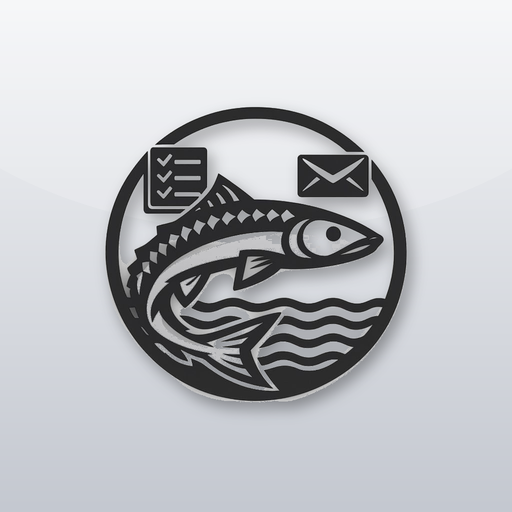
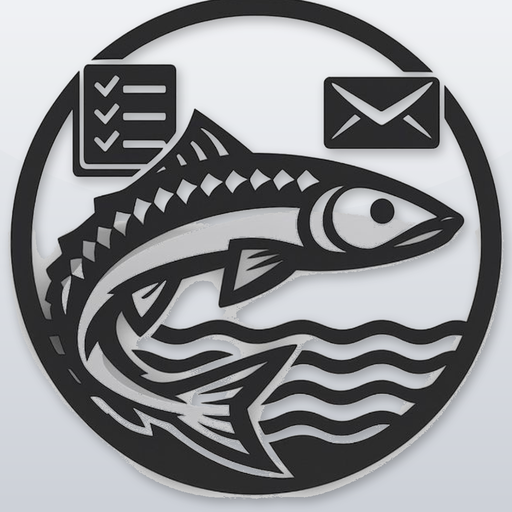
Add files via upload

diff --git a/app.py b/app.py
@@ -481,24 +481,35 @@ padding:1px 7px;margin-left:6px;white-space:nowrap}
 .ci.don .cbox{background:#0a84ff;border-color:#0a84ff}
 .ci.don .ct{text-decoration:line-through;color:#8e8e93}
 .ci .del{margin-left:auto;color:#8e8e93;padding:0 6px}
-.overlay{position:fixed;inset:0;background:rgba(0,0,0,.55);display:flex;
-align-items:flex-end;justify-content:center;z-index:9}
-.sheet{background:#242426;border-radius:16px 16px 0 0;width:100%;max-width:560px;
-max-height:92vh;overflow-y:auto;-webkit-overflow-scrolling:touch;
-padding:16px 16px calc(16px + env(safe-area-inset-bottom));display:flex;
-flex-direction:column;gap:9px}
-.row .sym{font-size:18px;width:26px;text-align:center;flex:0 0 auto}
-.row{gap:8px}
-.sheet textarea{width:100%;background:#2c2c2e;color:#eee;border:none;border-radius:10px;
-padding:10px;font-size:16px;font-family:inherit;resize:vertical}
-.row{display:flex;align-items:center;justify-content:space-between;font-size:15px}
-.row input{background:#2c2c2e;color:#eee;border:none;border-radius:8px;padding:8px;
-font-size:15px;color-scheme:dark}
-.btns{display:flex;flex-wrap:wrap;gap:8px;margin-top:4px}
-.btns button{flex:1;min-width:96px;font-size:15px;padding:11px;border-radius:10px;
-border:none;background:#3a3a3c;color:#eee}
-.btns .primary{background:#0a84ff;color:#fff;font-weight:600}
-.btns .danger{background:#3a3a3c;color:#ff453a}
+/* Окно задачи — на весь экран, как в Things на iPhone */
+.overlay{position:fixed;inset:0;background:#1c1c1e;z-index:9;display:flex;flex-direction:column;
+padding:env(safe-area-inset-top) 0 0}
+.mbar{display:flex;align-items:center;gap:8px;padding:8px 14px;flex:0 0 auto}
+.mbar .sp{flex:1}
+.mbar button{background:none;border:none;color:#0a84ff;font-size:17px;padding:6px}
+.mbody{flex:1 1 auto;overflow-y:auto;-webkit-overflow-scrolling:touch;padding:6px 16px 16px}
+.mbody textarea{width:100%;background:none;color:#eee;border:none;font-family:inherit;resize:none}
+#m_title{font-size:22px;font-weight:600}
+#m_note{font-size:17px;min-height:32vh;line-height:1.4}
+.chips{display:flex;flex-wrap:wrap;gap:6px;margin:8px 0}
+.mchip{font-size:14px;padding:4px 10px;border-radius:14px;background:#2c2c2e;color:#ddd;
+display:inline-flex;align-items:center;gap:5px}
+/* Нижняя панель символов */
+.toolbar{flex:0 0 auto;display:flex;gap:4px;justify-content:space-around;
+padding:10px 8px calc(10px + env(safe-area-inset-bottom));border-top:1px solid #2c2c2e;
+background:#161618}
+.toolbar button{background:none;border:none;font-size:24px;padding:6px 10px;border-radius:10px}
+.toolbar button.on{background:#2c2c2e}
+/* Выдвижная панель ввода над toolbar */
+.panel{flex:0 0 auto;background:#242426;border-top:1px solid #333;padding:12px 16px;
+display:none}
+.panel.show{display:block}
+.panel input{width:100%;background:#2c2c2e;color:#eee;border:none;border-radius:8px;
+padding:10px;font-size:16px;color-scheme:dark;margin-top:6px}
+.panel .quick{display:flex;gap:8px;margin-top:8px;flex-wrap:wrap}
+.panel .quick button{background:#2c2c2e;color:#0a84ff;border:none;border-radius:8px;
+padding:8px 12px;font-size:15px}
+.ci{display:flex;gap:10px;align-items:center;padding:7px 0;font-size:16px}
 </style></head><body>
 <div class="head">
 <div class="tabs" id="tabs">
@@ -516,30 +527,49 @@ enterkeyhint="done"><button onclick="add()">＋</button></div>
 </div>
 <div id="list"></div>
 
-<div id="modal" class="overlay" style="display:none" onclick="if(event.target===this)closeModal()">
-<div class="sheet">
-<textarea id="m_title" rows="2" placeholder="Название"></textarea>
-<textarea id="m_note" rows="7" placeholder="Заметки" style="max-height:50vh"></textarea>
-<div id="m_check"></div>
-<div class="row">
- <span class="sym">☑︎</span>
- <input id="m_newitem" placeholder="пункт чек-листа" style="flex:1"
-  onkeydown="if(event.key==='Enter')addCheck()"></div>
-<div class="row"><span class="sym">📁</span>
- <input id="m_project" list="projlist" placeholder="проект" style="flex:1"><datalist id="projlist"></datalist></div>
-<div class="row"><span class="sym">🏷️</span>
- <input id="m_tags" placeholder="теги через запятую" style="flex:1"></div>
-<div class="row"><span class="sym">📅</span><input type="date" id="m_date" style="flex:1"></div>
-<div class="row"><span class="sym">🕐</span><input type="time" id="m_time" style="flex:1"></div>
-<div class="row"><span class="sym">🗄️</span><span style="flex:1">Когда-нибудь</span>
- <input type="checkbox" id="m_someday"></div>
-<div class="btns">
-<button class="primary" onclick="saveModal()">Сохранить</button>
-<button class="danger" id="m_trash" onclick="trashModal()">В корзину</button>
-<button id="m_restore" onclick="restoreModal()">Вернуть</button>
-<button class="danger" id="m_delete" onclick="deleteForever()">Удалить навсегда</button>
+<div id="modal" class="overlay" style="display:none">
+ <div class="mbar">
+  <button onclick="saveModal()">‹ Готово</button>
+  <span class="sp"></span>
+  <button id="m_trash" onclick="trashModal()" style="color:#ff453a">🗑</button>
+  <button id="m_restore" onclick="restoreModal()" style="display:none">Вернуть</button>
+  <button id="m_delete" onclick="deleteForever()" style="display:none;color:#ff453a">Удалить</button>
+ </div>
+ <div class="mbody">
+  <textarea id="m_title" rows="1" placeholder="Название"></textarea>
+  <div class="chips" id="m_chips"></div>
+  <textarea id="m_note" placeholder="Заметки"></textarea>
+  <div id="m_check"></div>
+ </div>
+ <!-- Выдвижные панели ввода -->
+ <div class="panel" id="p_date">
+  <input type="date" id="m_date">
+  <div class="quick">
+   <button onclick="setQuickDate(0)">Сегодня</button>
+   <button onclick="setQuickDate(1)">Завтра</button>
+   <button onclick="m_date.value='';renderChips()">Убрать дату</button>
+  </div>
+ </div>
+ <div class="panel" id="p_time"><input type="time" id="m_time">
+  <div class="quick"><button onclick="m_time.value='';renderChips()">Убрать время</button></div></div>
+ <div class="panel" id="p_check">
+  <input id="m_newitem" placeholder="пункт чек-листа + Enter"
+   onkeydown="if(event.key==='Enter')addCheck()"></div>
+ <div class="panel" id="p_tags"><input id="m_tags" placeholder="теги через запятую"
+   oninput="renderChips()"></div>
+ <div class="panel" id="p_project"><input id="m_project" list="projlist" placeholder="проект"
+   oninput="renderChips()"><datalist id="projlist"></datalist>
+  <div class="quick"><button onclick="m_someday.checked=!m_someday.checked;renderChips()"
+   id="m_someday_btn">🗄️ Когда-нибудь</button></div>
+  <input type="checkbox" id="m_someday" style="display:none"></div>
+ <div class="toolbar">
+  <button onclick="togglePanel('p_date',this)">📅</button>
+  <button onclick="togglePanel('p_time',this)">🕐</button>
+  <button onclick="togglePanel('p_check',this)">☑︎</button>
+  <button onclick="togglePanel('p_tags',this)">🏷️</button>
+  <button onclick="togglePanel('p_project',this)">📁</button>
+ </div>
 </div>
-</div></div>
 
 <script>
 let TODAY='', tasks=[], tab='today', cur=null, PROJECTS=[], DEBTS=[];
@@ -601,11 +631,14 @@ function debtRow(d){
 function groupedHTML(items, showDay){
   const projs=new Set(items.map(t=>t.project||''));
   if(projs.size<2) return items.map(t=>row(t,showDay)).join('');
+  // Сначала задачи без проекта (без заголовка), затем проекты снизу с заголовками
+  const noproj=items.filter(t=>!t.project);
   const groups={};
-  for(const t of items){const k=t.project||'Без проекта';(groups[k]=groups[k]||[]).push(t)}
-  const keys=Object.keys(groups).sort((a,b)=>
-    (a==='Без проекта')-(b==='Без проекта')||a.localeCompare(b,'ru'));
-  return keys.map(k=>'<h2>'+esc(k)+'</h2>'+groups[k].map(t=>row(t,showDay)).join('')).join('');
+  for(const t of items){if(!t.project)continue;(groups[t.project]=groups[t.project]||[]).push(t)}
+  const keys=Object.keys(groups).sort((a,b)=>a.localeCompare(b,'ru'));
+  let html=noproj.map(t=>row(t,showDay)).join('');
+  html+=keys.map(k=>'<h2>'+esc(k)+'</h2>'+groups[k].map(t=>row(t,showDay)).join('')).join('');
+  return html;
 }
 function render(){
   const el=document.getElementById('list');
@@ -686,6 +719,32 @@ function addCheck(){
   const v=m_newitem.value.trim();if(!v)return;
   editCheck.push({text:v,done:false});m_newitem.value='';renderCheck();
 }
+// Панели ввода (открываются по символу снизу)
+function togglePanel(id,btn){
+  const p=document.getElementById(id);const show=!p.classList.contains('show');
+  document.querySelectorAll('.panel').forEach(x=>x.classList.remove('show'));
+  document.querySelectorAll('.toolbar button').forEach(x=>x.classList.remove('on'));
+  if(show){p.classList.add('show');if(btn)btn.classList.add('on');
+    const inp=p.querySelector('input:not([type=checkbox])');if(inp)setTimeout(()=>inp.focus(),50);}
+}
+function setQuickDate(off){
+  const d=new Date();d.setDate(d.getDate()+off);
+  m_date.value=d.toISOString().slice(0,10);m_someday.checked=false;renderChips();
+}
+function renderChips(){
+  let h='';
+  const today=new Date().toISOString().slice(0,10);
+  if(m_someday.checked){h+='<span class="mchip">🗄️ Когда-нибудь</span>';}
+  else if(m_date.value){
+    const lbl=m_date.value===today?'★ Сегодня':m_date.value.slice(8,10)+'.'+m_date.value.slice(5,7);
+    h+='<span class="mchip">📅 '+lbl+'</span>';
+  }
+  if(m_time.value){h+='<span class="mchip">🕐 '+m_time.value+'</span>';}
+  if(m_project.value.trim()){h+='<span class="mchip">📁 '+esc(m_project.value.trim())+'</span>';}
+  m_tags.value.split(',').map(s=>s.trim()).filter(Boolean).forEach(t=>{
+    h+='<span class="mchip">🏷️ '+esc(t)+'</span>';});
+  m_chips.innerHTML=h;
+}
 function openModal(u){
   cur=tasks.find(t=>t.uuid===u);if(!cur)return;
   m_title.value=cur.title;m_note.value=cur.note||'';
@@ -694,12 +753,15 @@ function openModal(u){
   m_project.value=cur.project||'';
   m_tags.value=(cur.tags||[]).map(x=>x.name).join(', ');
   editCheck=(cur.checklist||[]).map(x=>({text:x.text,done:!!x.done}));
-  renderCheck();
+  renderCheck();renderChips();
   projlist.innerHTML=PROJECTS.map(p=>'<option value="'+esc(p)+'">').join('');
+  document.querySelectorAll('.panel').forEach(x=>x.classList.remove('show'));
+  document.querySelectorAll('.toolbar button').forEach(x=>x.classList.remove('on'));
   m_trash.style.display=cur.is_trashed?'none':'';
   m_restore.style.display=cur.is_trashed?'':'none';
   m_delete.style.display=cur.is_trashed?'':'none';
   modal.style.display='flex';
+  m_title.style.height='auto';m_title.style.height=m_title.scrollHeight+'px';
 }
 function closeModal(){modal.style.display='none';cur=null}
 async function saveModal(){